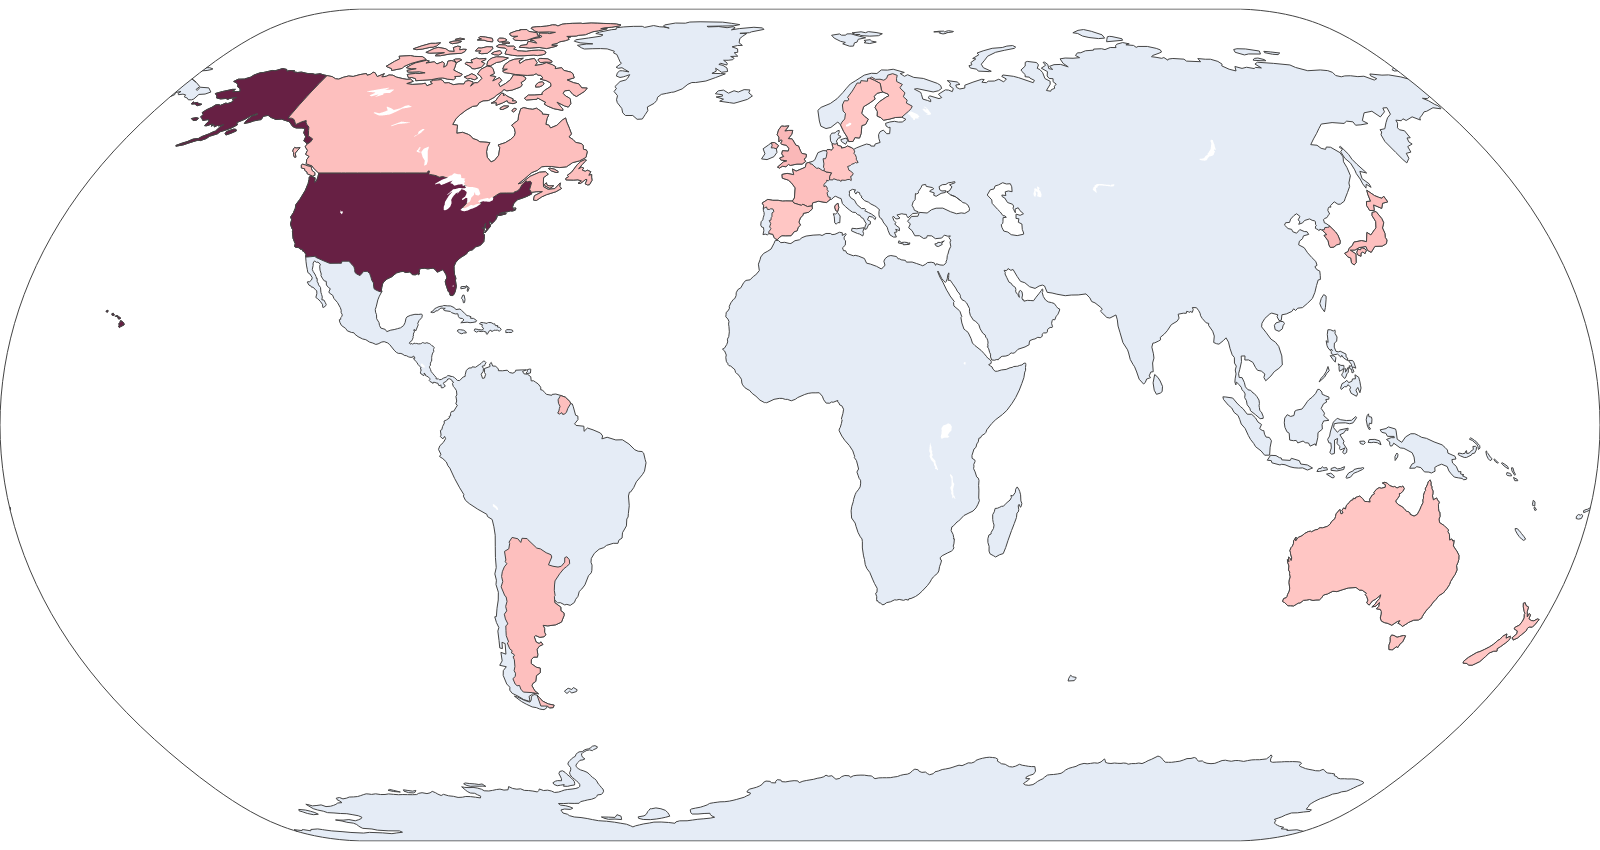
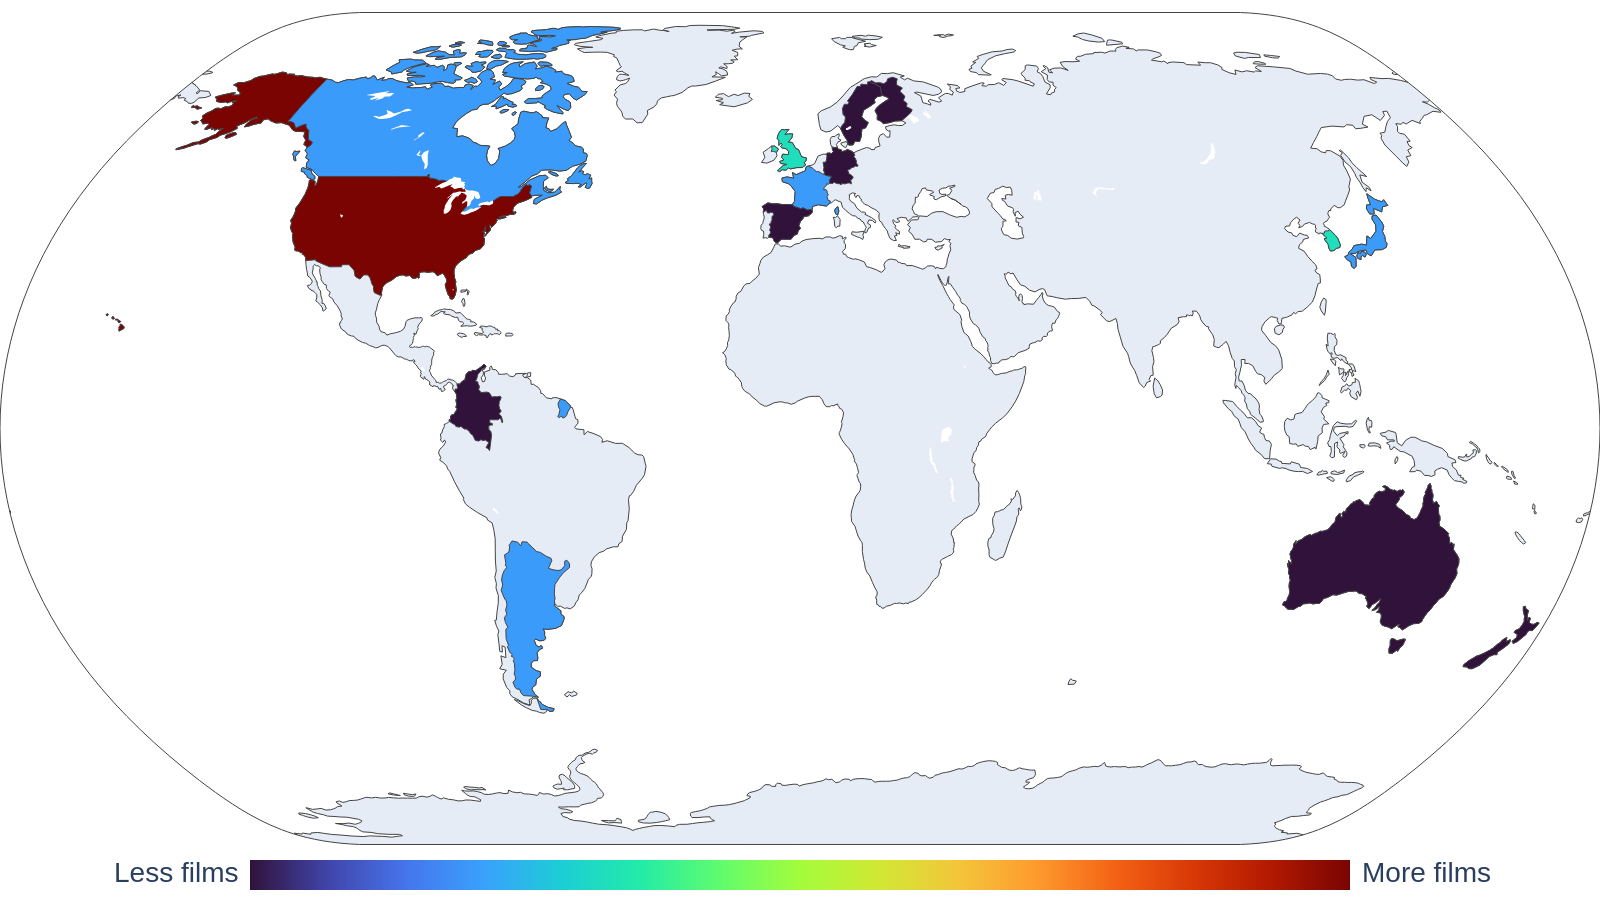
Improve map

diff --git a/build_readme.py b/build_readme.py
@@ -1,23 +1,53 @@
+import numpy as np
 import pandas as pd
 import plotly.graph_objects as go
 
 
 def generate_film_maps(df):
     countries = df["country"].value_counts().reset_index()
+    countries["count"] = np.log(countries["count"])
+
     fig = go.Figure(
         data=go.Choropleth(
-            locations=countries["country"], z=countries["count"], colorscale="Burg"
+            locations=countries["country"],
+            z=countries["count"],
+            colorscale="turbo",
+            colorbar=dict(
+                orientation="h",
+                showticklabels=False,
+                y=-0.05,
+                len=0.7,
+            ),
         )
+    )
+
+    fig.add_annotation(
+        x=0.85,
+        y=-0.05,
+        text="More films",
+        showarrow=False,
+        yshift=10,
+        xanchor="left",
+        font=dict(size=28),
+    )
+
+    fig.add_annotation(
+        x=0.07,
+        y=-0.05,
+        text="Less films",
+        showarrow=False,
+        yshift=10,
+        xanchor="left",
+        font=dict(size=28),
     )
 
     for theme in ["plotly", "plotly_dark"]:
         fig.update_layout(
-            margin={"r": 0, "t": 0, "l": 0, "b": 0},
-            geo=dict(showcoastlines=True, projection_type="natural earth"),
             template=theme,
+            geo=dict(showcoastlines=True, projection_type="natural earth"),
+            margin={"r": 0, "t": 0, "l": 0, "b": 0},
         )
-        fig.update_traces(showscale=False)
-        fig.write_image(f"figures/films_map_{theme}.png", width=1600, height=850)
+        fig.write_image(f"figures/films_map_{theme}.png", width=1600, height=900)
 
 
 def main():
@@ -36,7 +66,7 @@ def main():
         subdf = df.query(f"rating == '{rating}'").sort_values(by="director")
         md += subdf[["director", "title", "year", "country"]].to_markdown(index=False)
         md += "\n"
-    md += "### Movies by country\n\n"
+    md += "\n### Movies by country\n\n"
     md += "<picture>\n"
     md += """  <source media="(prefers-color-scheme: dark)" srcset="figures/films_map_plotly_dark.png">\n"""
     md += """  <source media="(prefers-color-scheme: light)" srcset="figures/films_map_plotly.png">\n"""

diff --git a/README.md b/README.md
@@ -2,8 +2,8 @@
 
 ## Movies
 
-- Movies I've seen: 50
-- Last movie I saw: Creep
+- Movies I've seen: 51
+- Last movie I saw: Silencio en el paraíso
 
 ### Ranked
 
